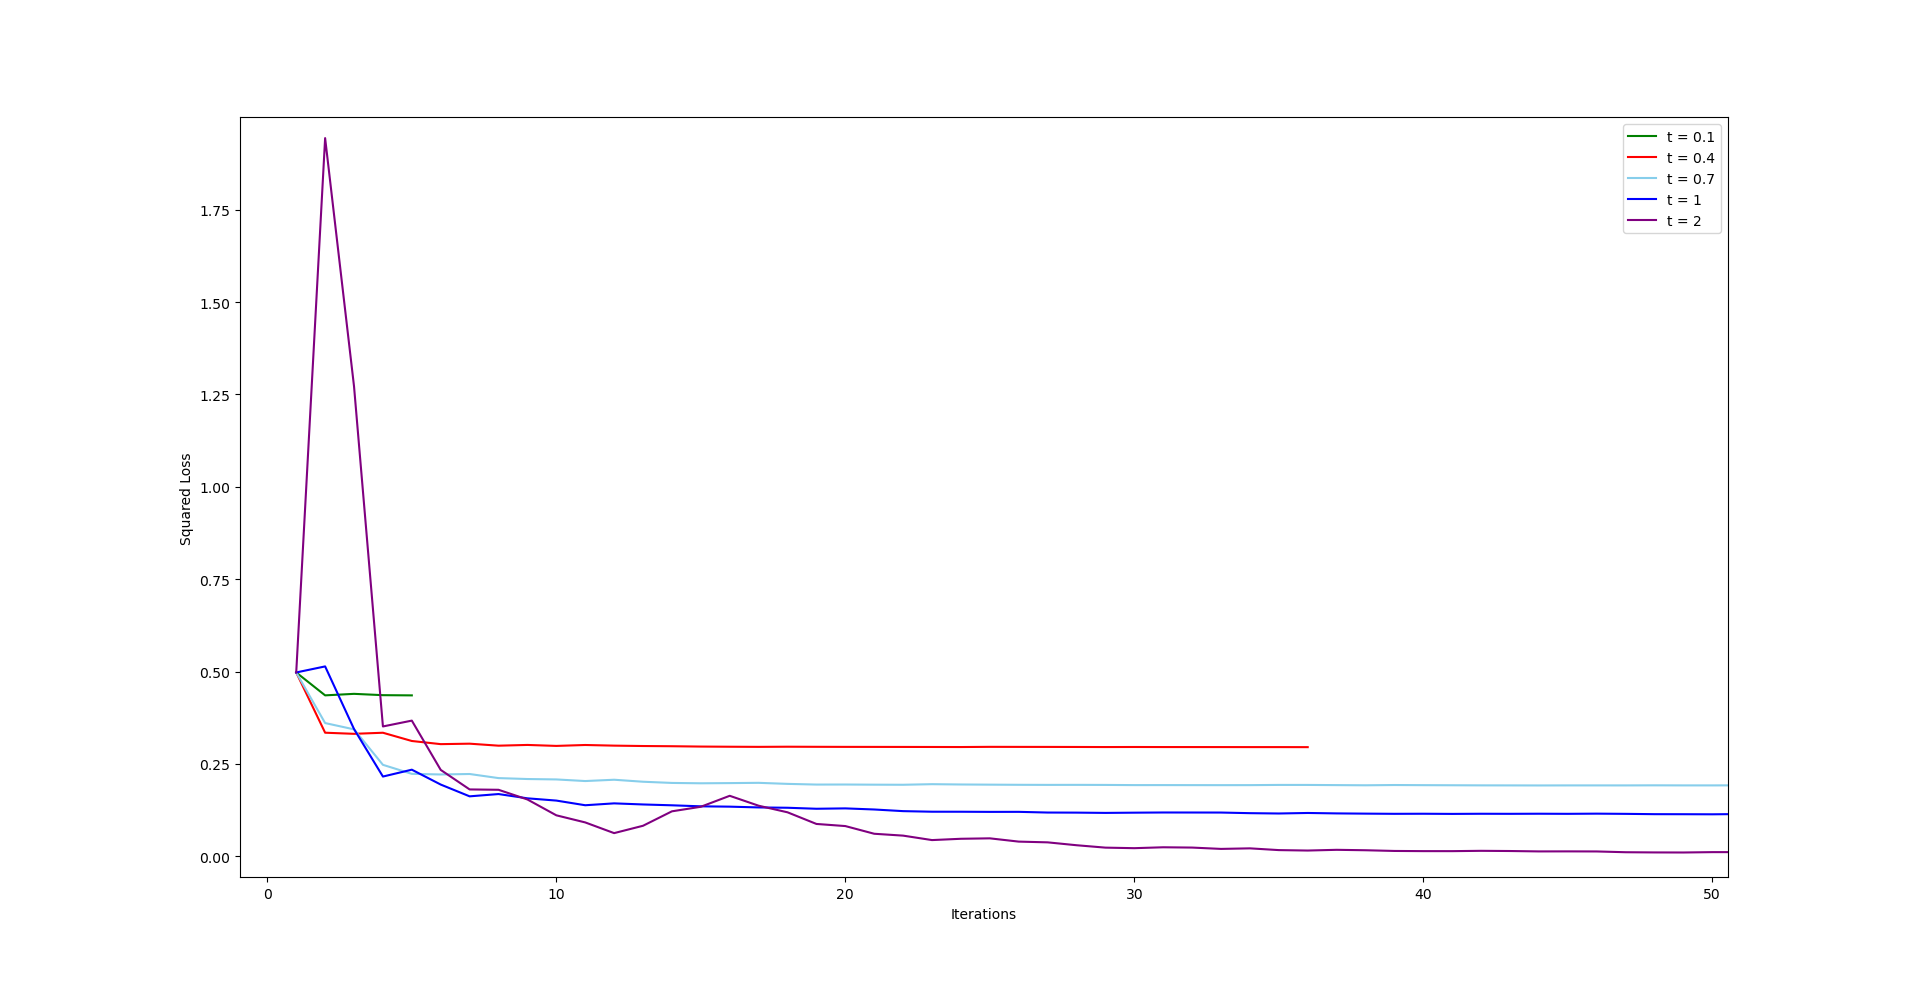
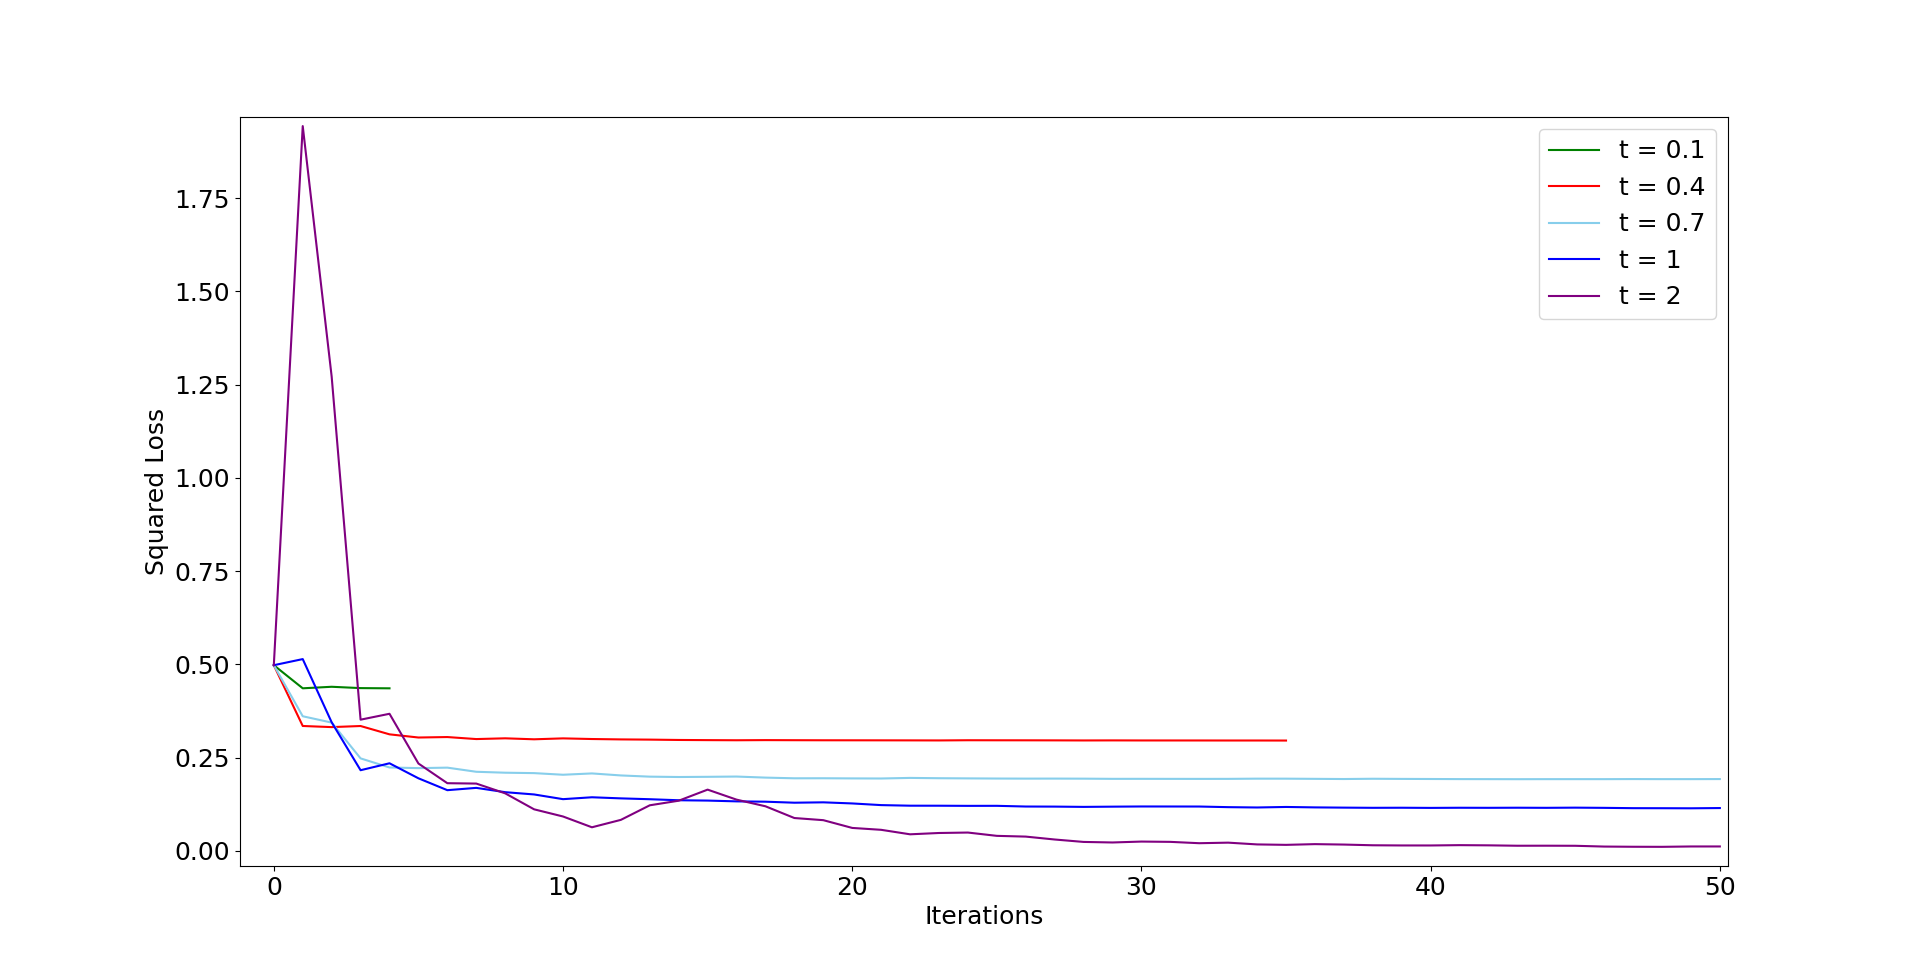
modify vis font

diff --git a/test_fw.py b/test_fw.py
@@ -85,13 +85,14 @@ if __name__ == "__main__":
     from matplotlib import pyplot as plt
 
     # x_axix = range(1, 201)
-    plt.plot(range(1, len(cb_1.trace_fx)+1), cb_1.trace_fx, color='green', label='t = 0.1')
-    plt.plot(range(1, len(cb_2.trace_fx)+1), cb_2.trace_fx, color='red', label='t = 0.4')
-    plt.plot(range(1, len(cb_3.trace_fx)+1), cb_3.trace_fx,  color='skyblue', label='t = 0.7')
-    plt.plot(range(1, len(cb_4.trace_fx)+1), cb_4.trace_fx, color='blue', label='t = 1')
-    plt.plot(range(1, len(cb_5.trace_fx)+1), cb_5.trace_fx, color='purple', label='t = 2')
-    plt.legend() # 显示图例
-    plt.xlabel('Iterations')
-    plt.ylabel('Squared Loss')
+    plt.plot(range(0, len(cb_1.trace_fx)), cb_1.trace_fx, color='green', label='t = 0.1')
+    plt.plot(range(0, len(cb_2.trace_fx)), cb_2.trace_fx, color='red', label='t = 0.4')
+    plt.plot(range(0, len(cb_3.trace_fx)), cb_3.trace_fx,  color='skyblue', label='t = 0.7')
+    plt.plot(range(0, len(cb_4.trace_fx)), cb_4.trace_fx, color='blue', label='t = 1')
+    plt.plot(range(0, len(cb_5.trace_fx)), cb_5.trace_fx, color='purple', label='t = 2')
+    plt.legend(fontsize=18) # 显示图例
+    plt.tick_params(labelsize=18)
+    plt.xlabel('Iterations', fontsize=18)
+    plt.ylabel('Squared Loss', fontsize=18)
     plt.show()
 
